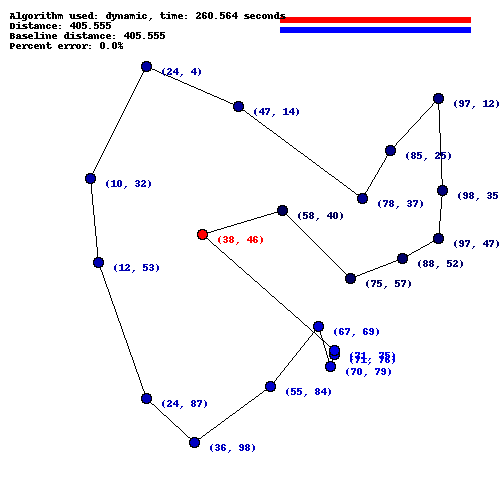
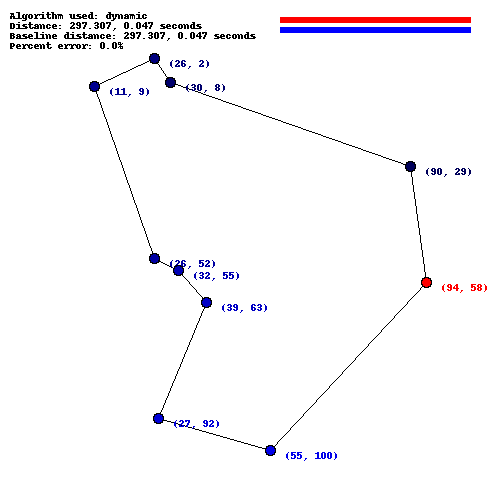
update to visualization, also prints runtime for each algorithm

diff --git a/helpers.py b/helpers.py
@@ -49,9 +49,9 @@ def scale_distance(d1, d2, line_len):
     return (len_d1, len_d2)
 
 
-def print_path(num, solution_set, distance_set, start_end, cities, d, t):
+def print_path(num, solution_set, distance_set, start_end, cities, d, t1, t2):
     assert (num < 3 and num > -1)
-    create_png(num, solution_set, distance_set, start_end, cities, d, t)
+    create_png(num, solution_set, distance_set, start_end, cities, d, t1, t2)
     print "Current path for traveling between these", cities, "cities is: "
     print " 1 ) ", start_end
     sol = solution_set[num]
@@ -61,7 +61,7 @@ def print_path(num, solution_set, distance_set, start_end, cities, d, t):
     print "Total distance traveled:", distance_set[num]
     return
 
-def create_png(num, solution_set, distance_set, start_end, cities, d, t):
+def create_png(num, solution_set, distance_set, start_end, cities, d, t1, t2):
     path = solution_set[num]
     city = start_end
     path.append(start_end)
@@ -114,8 +114,8 @@ def create_png(num, solution_set, distance_set, start_end, cities, d, t):
     draw.line([(280,20), (300 + d1, 20)], fill = (255, 0, 0), width = 5)
     draw.line([(280,30), (300 + d2, 30)], fill = (0, 0, 255), width = 5)
 
-    draw.text((10,20), "Distance: " + str(distance_set[num]), font=font, fill = (0,0,0))
-    draw.text((10,30), "Baseline distance: " + str(d), font=font, fill = (0,0,0))
+    draw.text((10,20), "Distance: " + str(distance_set[num]) + ", " + str(t1) + " seconds", font=font, fill = (0,0,0))
+    draw.text((10,30), "Baseline distance: " + str(d) + ", " + str(t2) + " seconds", font=font, fill = (0,0,0))
     draw.text((10,40), "Percent error: " + str(error) + "%", font=font, fill = (0,0,0))
     if num == 0:
         name = "greedy"
@@ -124,7 +124,7 @@ def create_png(num, solution_set, distance_set, start_end, cities, d, t):
     else:
         name = "dynamic"
     filename = "tsp_" + name + ".png"
-    draw.text((10,10), "Algorithm used: " + name + ", time: " + str(t) + " seconds", font=font, fill = (0,0,0))
+    draw.text((10,10), "Algorithm used: " + name, font=font, fill = (0,0,0))
 
     del draw
     im.save(filename, "PNG")

diff --git a/user_interface.py b/user_interface.py
@@ -122,7 +122,7 @@ number less than 2^25 to account for hardware limitations. \n --> "))
             solution_set = update(solution_set, 2, res[0])
             time_set = update(time_set, 2, t)
 
-        print_path(y - 1, solution_set, distance_set, start_end, cities, dist, time_set[y-1])
+        print_path(y - 1, solution_set, distance_set, start_end, cities, dist, time_set[y-1], time_set[2])
         f = open('accuracy.txt', 'a')
 
         if y == 1:
